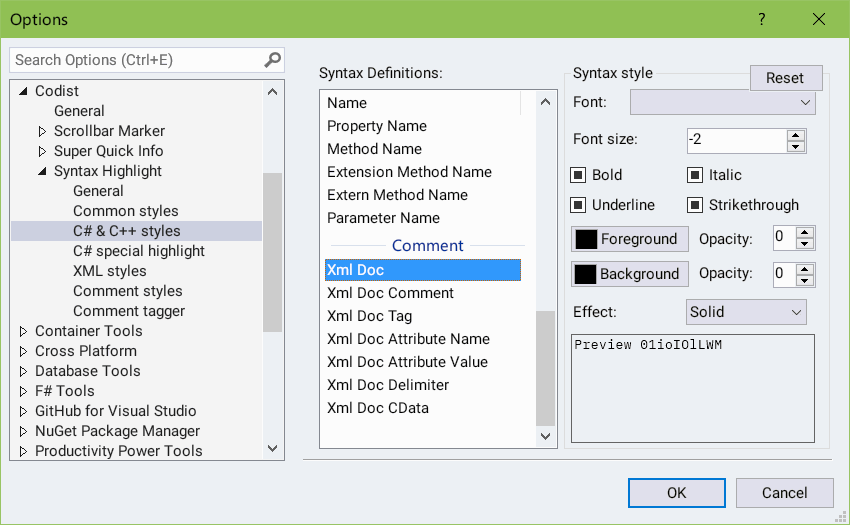
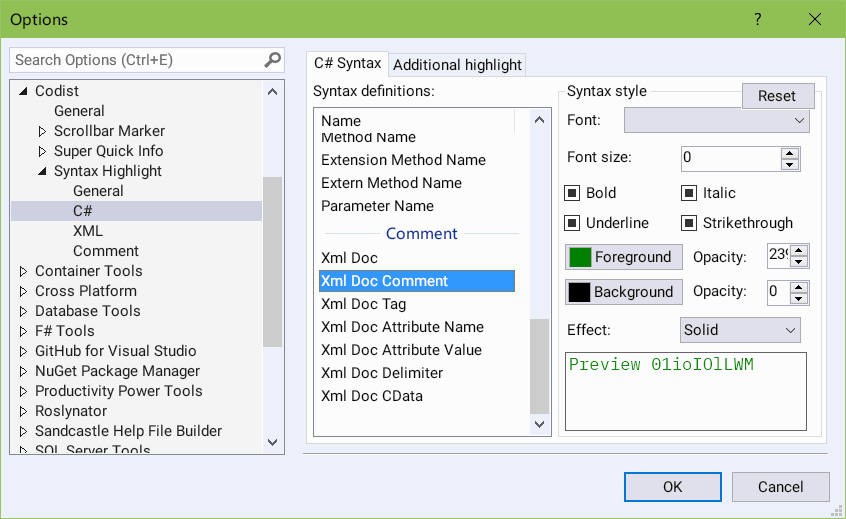
! Updated Readme to reflect recent changes

Changed region(s): [[0.3688, 0.0925, 0.9835, 0.9865], [0.0, 0.0925, 0.3381, 0.894], [0.0307, 0.0308, 0.0922, 0.0617]]

diff --git a/README.md b/README.md
@@ -1,11 +1,13 @@
 # Codist
 *Codist* is a visual studio extension which strives to provide better coding experience for C# programmers. It features:
+
 * Advanced syntax highlight with *comment tagger*
 * Super Quick Info with *Click and Go* to source code
 * Smart Bar (**new in version 3.0**)
 * Scrollbar markers
 * Extra margin between lines
-  ![Feature overview](doc/preview.png)
+
+![Feature overview](doc/preview.png)
 
 # Features and screenshots
 
@@ -31,15 +33,13 @@
 
   **NOTE**: To quickly get started with advanced syntax highlight, navigate to the *Syntax Highlight* section, click the *Light theme* or *Dark theme* button in the *options* dialog and see them in effect. Don't forget to click the *OK* button to confirm the change.
 
-  You can see the syntax theme changed on an opened document window when you click the theme buttons.
-
   ![Load Theme](doc/load-theme.png)
 
   To customize and tweak the syntax highlight effects, click the *common syntax* tab in the *syntax highlight* section, or click the sub sections inside the *Syntax Highlight* section to change individual styles, accordingly.
 
-  While you change the setting in the dialog, you can see how the style looks in the code document window.
-
   ![Style customization](doc/syntax-highlight.png)
+
+  **TIP**: Open a document window before you change the syntax theme or tweak the syntax highlight settings, while you change theme, you can see how the styles change in the code document window simultaneously.
 
 ## Super Quick Info
 
@@ -128,13 +128,13 @@ The quick info (the tooltip shown when you hover your mouse pointer on your C# s
 
   ![Comment syntax highlight](doc/syntax-highlight-comments.png)
 
-* The syntax style of comments or C# XML Documentations could be changed too. You can make them semitrasparent to stand behind usual code lines by changing the *Opacity* or the *Font size* value of the corresponding syntax parts.
-
-  ![Comment syntax XML Doc](doc/csharp-options-xmldoc.png)
-
   To configure the comment tags, click the *Tags* tab, in the *Comment* sub-section of the *Syntax Highlight* section, where you can add, remove or modify comment tags. 
 
   ![Comment syntax highlight](doc/comment-tagger-options.png)
+
+* The syntax style of comments or C# XML Documentations could be changed too. You can make them semitrasparent to stand behind usual code lines by changing the *Opacity* or the *Font size* value of the corresponding syntax parts.
+
+  ![Comment syntax XML Doc](doc/csharp-options-xmldoc.png)
 
 ## Markers on the Scrollbar Margin
 
@@ -168,9 +168,11 @@ Buttons on the *Smart Bar* changes from contexts.
 
    It is useful when your laptop are running on battery. Disabling *Codist* may help it sustain a little bit longer.
 
-   This option works with subsequently opened new document windows. Existing document windows won't be affected.
+   Someone who does not like the syntax highlight or use another syntax highlighter can also turn off the *Syntax Highlight* feature individually here.
 
-2. Within the *Extra line margins* group box, you can adjust margins between lines to make code text more readable.
+   These options affects new document windows. Existing document windows won't be affected.
+
+2. Within the *Extra line margins* group box, you can adjust margins between lines to make code lines more readable.
 
 # Acknowledgements
 I have learned a lot from the following extension projects.
@@ -183,6 +185,7 @@ I have learned a lot from the following extension projects.
 * CodeBlockEndTag: https://github.com/KhaosCoders/VSCodeBlockEndTag
 * Remarker: https://github.com/jgyo/remarker
 * UntabifyReplacement: https://github.com/cpmcgrath/UntabifyReplacement
+* Extensiblity Tools: https://github.com/madskristensen/ExtensibilityTools
 
 # Bugs and suggestions
 Please [post New Issue](https://github.com/wmjordan/Codist/issues) in the [GitHub project](https://github.com/wmjordan/Codist) if you find any bug or have any suggestion.
